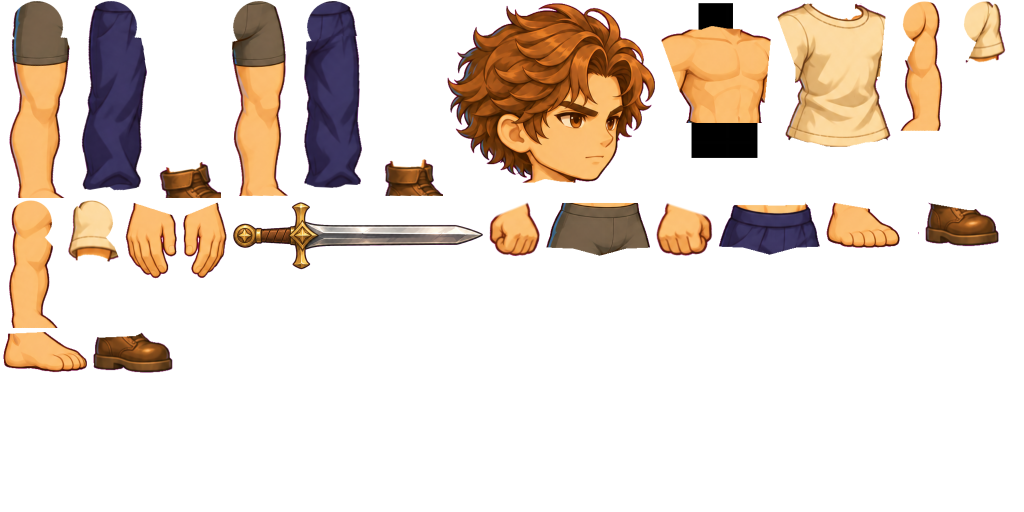
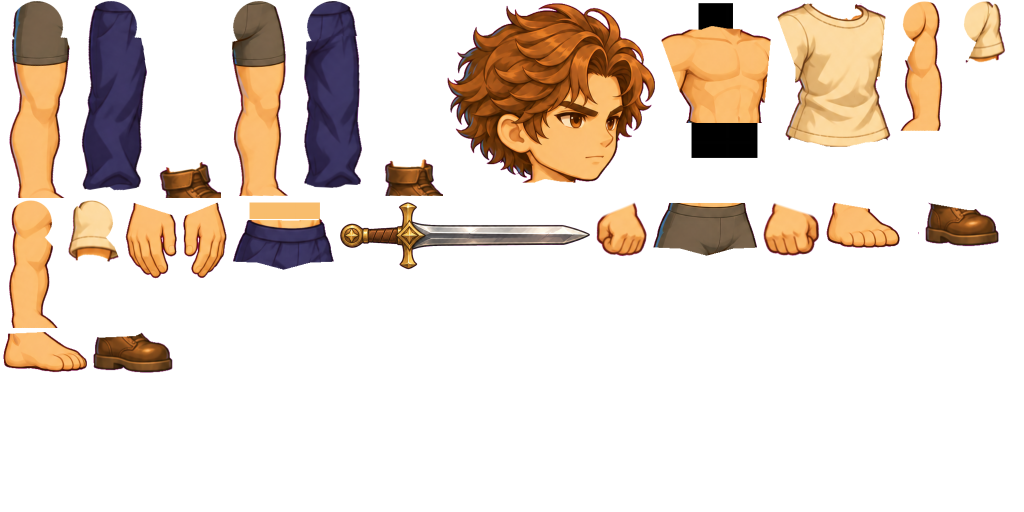
V4 lab, BASE-01: animations authored for the body (the art director's motion review), weapon fixed in the fist
Idle (armed and bare), run (contact, compression, push-off, flight), jump (anticipation to landing) and the sword
attack (wind-up, swing with the hips, impact, follow-through, recovery), each key a pose in the world with the legs
reaching their ankles by two-bone IK (planted feet stay planted). The held weapon is a rigid part of the fist (the
socket follows the handle the fist was drawn round). Trousers carry on hidden under a top's hem; the exporter now
starts the item fit from the figures' boxes.

Claude-Session: https://claude.ai/code/session_01AdjxSzUCV4VRbquShPanH9

Changed region(s): [[0.2188, 0.375, 0.8125, 0.5312]]

diff --git a/src/v4/base01/anims.ts b/src/v4/base01/anims.ts
@@ -1,109 +1,172 @@
-// BASE-01's animations: the lab's idle, run, jump and attack. The legs, hips, torso and head keep their motion,
-// carried over so every bone keeps its world angle; the arms are posed for a weapon held in the near hand, in world
-// angles (90 = straight down, 0 = forward): the blade stays clear of the face, the free far hand balances. Items never
-// have animations of their own: everything worn rides these same bones.
-import { ANIMS_B } from '../real/animsB';
-import { RIG_B } from '../real/rigB';
+// BASE-01's animations, authored for this body (the art director's motion review, 2 Nov 2026): key poses with real
+// weight. Each key is a pose in the world: where the pelvis sits, how the chest and head lean, where each ankle is
+// (the leg bends to reach it: two-bone IK, knee forward, so planted feet stay planted) and the foot's angle, and the
+// arms' world angles (90 = straight down, 0 = forward). A held weapon is a rigid part of the fist: no animation turns
+// it about the hand; the wrist turns the hand and the weapon together. Items never have animations of their own.
 import { k } from '../rig/anims';
-import { sample } from '../rig/pose';
-import type { AnimDef, Ease, Key, RigDef } from '../rig/types';
-import { carryOver } from '../studio/animsT';
-import { RIG_B01 } from './rig';
+import type { AnimDef, BoneTimeline, Ease, Key } from '../rig/types';
+import data from './assets/base01.json';
+import { GRIP_AXIS } from './rig';
 
-const restLocal = (rig: RigDef): Record<string, number> => Object.fromEntries(rig.bones.map((b) => [b.name, b.r]));
-type ArmPose = [number, number, number, number?];
+const R = data.rig;
+const W = R.world as unknown as Record<string, number>;
+const O = R.offsets as unknown as Record<string, [number, number]>;
+const LEN = R.lengths as unknown as Record<string, number>;
+const RAD = Math.PI / 180;
+type Side = 'B' | 'F';
 
-function armKeys(base: AnimDef, side: 'B' | 'F', keys: [number, ArmPose, Ease?][]) {
-  const R = restLocal(RIG_B01);
-  const chest = (t: number) => sample(base.bones.hip?.r, t) + R.hip + sample(base.bones.chest?.r, t) + R.chest;
-  const up: Key[] = [], fo: Key[] = [], ha: Key[] = [], we: Key[] = [];
-  for (const [t, [u, f, h, blade], e] of keys) {
-    const ease = e ?? 'inout';
-    up.push(k(t, u - chest(t) - R[`uparm_${side}`], ease));
-    fo.push(k(t, f - u - R[`forearm_${side}`], ease));
-    ha.push(k(t, h - f - R[`hand_${side}`], ease));
-    if (blade !== undefined) we.push(k(t, blade - h - R.weapon, ease));
+/** Ankle target: [x, y] in the root frame (B units, y down, the ground at 0) and the foot's world angle. */
+type Foot = [number, number, number];
+/** Arm: upper arm, forearm, hand world angles. */
+type Arm = [number, number, number];
+interface Pose {
+  t: number; e?: Ease;
+  hip?: [number, number]; hipR?: number; chest?: number; head?: number;
+  legs: Record<Side, Foot | ((hx: number, hy: number) => Foot)>;
+  arms: Record<Side, Arm>;
+}
+
+const rot = (x: number, y: number, deg: number): [number, number] => { const c = Math.cos(deg * RAD), s = Math.sin(deg * RAD); return [x * c - y * s, x * s + y * c]; };
+/** Where each hip joint is for a pelvis offset and rotation. */
+function hipJoint(s: Side, hip: [number, number], hr: number): [number, number] {
+  const [ox, oy] = rot(O[`thigh_${s}`][0], O[`thigh_${s}`][1], hr);
+  return [O.hip[0] + hip[0] + ox, O.hip[1] + hip[1] + oy];
+}
+/** Two-bone IK, the knee bending forward: thigh and shin world angles that put the ankle on (ax, ay). */
+function ik(s: Side, hx: number, hy: number, ax: number, ay: number): [number, number] {
+  const L1 = LEN[`thigh_${s}`], L2 = LEN[`shin_${s}`];
+  let dx = ax - hx, dy = ay - hy, d = Math.hypot(dx, dy);
+  const dmax = (L1 + L2) * 0.9995;
+  if (d > dmax) { dx *= dmax / d; dy *= dmax / d; d = dmax; }
+  const phi = Math.atan2(dy, dx);
+  const a = Math.acos(Math.max(-1, Math.min(1, (L1 * L1 + d * d - L2 * L2) / (2 * L1 * d))));
+  const t1 = phi - a;
+  const kx = hx + L1 * Math.cos(t1), ky = hy + L1 * Math.sin(t1);
+  return [t1 / RAD, Math.atan2(hy + dy - ky, hx + dx - kx) / RAD];
+}
+/** The ankle's rest place (on the ground, foot flat). */
+const ANKLE0: Record<Side, [number, number]> = (['B', 'F'] as Side[]).reduce((m, s) => {
+  const [hx, hy] = hipJoint(s, [0, 0], 0);
+  const kx = hx + LEN[`thigh_${s}`] * Math.cos(W[`thigh_${s}`] * RAD), ky = hy + LEN[`thigh_${s}`] * Math.sin(W[`thigh_${s}`] * RAD);
+  m[s] = [kx + LEN[`shin_${s}`] * Math.cos(W[`shin_${s}`] * RAD), ky + LEN[`shin_${s}`] * Math.sin(W[`shin_${s}`] * RAD)];
+  return m;
+}, {} as Record<Side, [number, number]>);
+const GROUND = ANKLE0.B[1];
+/** A foot on the ground at x (flat unless an angle is given). */
+const on = (x: number, a = 0, lift = 0): Foot => [x, GROUND - lift, a];
+/** A foot placed from its own hip joint (airborne legs). */
+const fromHip = (dx: number, dy: number, a: number) => (hx: number, hy: number): Foot => [hx + dx, hy + dy, a];
+
+function build(name: string, dur: number, loop: boolean, poses: Pose[], extra: Partial<AnimDef> = {}): AnimDef {
+  const ch: Record<string, { r: Key[]; x?: Key[]; y?: Key[] }> = {};
+  const put = (bone: string, t: number, v: number, e: Ease, axis: 'r' | 'x' | 'y' = 'r') => {
+    const b = (ch[bone] ??= { r: [] });
+    (b[axis] ??= []).push(k(t, v, e));
+  };
+  for (const p of poses) {
+    const e = p.e ?? 'inout', hip = p.hip ?? [0, 0], hr = p.hipR ?? 0, chest = p.chest ?? 0;
+    put('hip', p.t, hip[0], e, 'x'); put('hip', p.t, hip[1], e, 'y'); put('hip', p.t, hr, e);
+    put('chest', p.t, chest, e); put('head', p.t, p.head ?? 0, e);
+    for (const s of ['B', 'F'] as Side[]) {
+      const [hx, hy] = hipJoint(s, hip, hr);
+      const leg = p.legs[s], [ax, ay, fa] = typeof leg === 'function' ? leg(hx, hy) : leg;
+      const [t1, t2] = ik(s, hx, hy, ax, ay);
+      put(`thigh_${s}`, p.t, t1 - hr - W[`thigh_${s}`], e);
+      put(`shin_${s}`, p.t, (t2 - t1) - (W[`shin_${s}`] - W[`thigh_${s}`]), e);
+      put(`foot_${s}`, p.t, fa - t2 + W[`shin_${s}`], e);
+      const [u, f, h] = p.arms[s];
+      put(`uparm_${s}`, p.t, u - (hr + chest) - W[`uparm_${s}`], e);
+      put(`forearm_${s}`, p.t, (f - u) - (W[`forearm_${s}`] - W[`uparm_${s}`]), e);
+      put(`hand_${s}`, p.t, h - f, e);
+    }
   }
-  for (const ch of [up, fo, ha, we]) for (let i = 1; i < ch.length; i++) ch[i].v -= 360 * Math.round((ch[i].v - ch[i - 1].v) / 360);
-  return { [`uparm_${side}`]: { r: up }, [`forearm_${side}`]: { r: fo }, [`hand_${side}`]: { r: ha }, ...(we.length ? { weapon: { r: we } } : {}) };
+  // every joint turns the short way between keys
+  for (const b of Object.values(ch)) for (const keys of [b.r, b.x, b.y]) {
+    if (!keys) continue;
+    keys.sort((a, c) => a.t - c.t);
+    if (keys === b.r) for (let i = 1; i < keys.length; i++) keys[i].v -= 360 * Math.round((keys[i].v - keys[i - 1].v) / 360);
+  }
+  return { name, dur, loop, bones: ch as Record<string, BoneTimeline>, ...extra };
 }
 
-const loopKeys = (dur: number, poses: ArmPose[]): [number, ArmPose][] => poses.map((p, i) => [(dur * i) / (poses.length - 1), p]);
-const carry = (a: AnimDef) => carryOver(a, RIG_B, RIG_B01);
-const HANDS = { handB: [{ t: 0, v: 'grip' }], handF: [{ t: 0, v: 'grip' }] };
+/** The hand angle that points a held weapon's blade along `blade` (the fist's handle is fixed in the hand). */
+const grip = (s: Side, blade: number) => blade + GRIP_AXIS[s];
+const ARMED = { handB: [{ t: 0, v: 'grip' }], handF: [{ t: 0, v: 'grip' }] };
+const BARE = { handB: [{ t: 0, v: 'open' }], handF: [{ t: 0, v: 'open' }] };
 
-// the stance: the weapon hand low in front of the waist, the blade forward-up; the free hand a loose fist by the hip
-const STANCE_NEAR: ArmPose = [76, 34, 40, -40];
-const STANCE_FAR: ArmPose = [84, 60, 64];
+// The armed stance: the near (sword) hand in front of the belly, the blade up-forward; the free fist by the hip; the
+// feet a little wider than the rest pose, the weight a little back.
+const GUARD: Record<Side, Arm> = { B: [72, 18, grip('B', -42)], F: [88, 66, 74] };
+const STANCE = { B: -0.11, F: 0.105 };
 
-function idle(): AnimDef {
-  const b = carry(ANIMS_B.idle);
-  return {
-    ...b,
-    bones: {
-      ...b.bones,
-      ...armKeys(b, 'B', loopKeys(1.6, [STANCE_NEAR, [78, 37, 42, -39], STANCE_NEAR])),
-      ...armKeys(b, 'F', loopKeys(1.6, [STANCE_FAR, [86, 63, 67], STANCE_FAR])),
-    },
-    swaps: { ...b.swaps, ...HANDS },
-  };
+const IDLE = build('idle', 2.4, true, [
+  { t: 0, hip: [-0.008, 0.012], chest: 3, head: -2, legs: { B: on(STANCE.B), F: on(STANCE.F) }, arms: GUARD },
+  { t: 1.2, hip: [-0.011, 0.017], chest: 4.6, head: -2.8, legs: { B: on(STANCE.B), F: on(STANCE.F) }, arms: { B: [74, 21, grip('B', -40)], F: [90, 69, 76] } },
+  { t: 2.4, hip: [-0.008, 0.012], chest: 3, head: -2, legs: { B: on(STANCE.B), F: on(STANCE.F) }, arms: GUARD },
+], { swaps: ARMED });
+
+const IDLE_BARE = build('idle_bare', 2.6, true, [
+  { t: 0, hip: [-0.006, 0.008], chest: 1, head: -1, legs: { B: on(-0.1), F: on(0.095) }, arms: { B: [102, 99, 99], F: [80, 84, 86] } },
+  { t: 1.3, hip: [-0.009, 0.013], chest: 2.6, head: -1.8, legs: { B: on(-0.1), F: on(0.095) }, arms: { B: [104, 101, 101], F: [82, 86, 88] } },
+  { t: 2.6, hip: [-0.006, 0.008], chest: 1, head: -1, legs: { B: on(-0.1), F: on(0.095) }, arms: { B: [102, 99, 99], F: [80, 84, 86] } },
+], { swaps: BARE });
+
+// The run: contact (the front foot lands, heel first), compression (the body drops over the planted foot), push-off
+// (the back leg extends, on its toes), flight (both feet off the ground); then the same with the other leg. 0.5 s a
+// cycle; the planted foot travels back at the run's speed (no sliding).
+const RD = 0.5, Q = RD / 8;
+const hxB = hipJoint('B', [0, 0], 0)[0], hxF = hipJoint('F', [0, 0], 0)[0];
+type Phase = 'contact' | 'down' | 'push' | 'flight' | 'contact2' | 'down2' | 'push2' | 'flight2';
+function runLeg(s: Side, ph: Phase): (hx: number, hy: number) => Foot {
+  const lead = s === 'F' ? ['contact', 'down', 'push', 'flight'] : ['contact2', 'down2', 'push2', 'flight2'];
+  const i = lead.indexOf(ph);
+  const PLANT: Foot[] = [[0.17, GROUND + 0.004, -14], [0.03, GROUND, 0], [-0.14, GROUND - 0.022, 38], [-0.2, GROUND - 0.09, 55]];
+  const SWING: Foot[] = [[-0.19, GROUND - 0.1, 48], [-0.05, GROUND - 0.17, 32], [0.12, GROUND - 0.13, -4], [0.19, GROUND - 0.05, -16]];
+  const f = i >= 0 ? PLANT[i] : SWING[(['contact', 'down', 'push', 'flight', 'contact2', 'down2', 'push2', 'flight2'].indexOf(ph) + 4) % 4];
+  const hx0 = s === 'B' ? hxB : hxF;
+  return (hx: number) => [hx0 + (hx - hx0) + f[0], f[1], f[2]];
 }
+const RUN_BODY: Record<string, { y: number; chest: number; head: number; armB: Arm; armF: Arm }> = {
+  contact: { y: 0.012, chest: 11, head: -7, armB: [64, 8, grip('B', -46)], armF: [106, 74, 78] },
+  down: { y: 0.03, chest: 13, head: -8, armB: [66, 10, grip('B', -45)], armF: [104, 60, 66] },
+  push: { y: 0.008, chest: 11, head: -7, armB: [70, 16, grip('B', -42)], armF: [70, 20, 26] },
+  flight: { y: -0.012, chest: 10, head: -6, armB: [72, 20, grip('B', -40)], armF: [44, -6, 0] },
+  contact2: { y: 0.012, chest: 11, head: -7, armB: [74, 22, grip('B', -40)], armF: [40, -10, -4] },
+  down2: { y: 0.03, chest: 13, head: -8, armB: [72, 20, grip('B', -41)], armF: [62, 14, 20] },
+  push2: { y: 0.008, chest: 11, head: -7, armB: [68, 14, grip('B', -43)], armF: [96, 52, 58] },
+  flight2: { y: -0.012, chest: 10, head: -6, armB: [65, 9, grip('B', -46)], armF: [102, 70, 74] },
+};
+const RUN_ORDER: Phase[] = ['contact', 'down', 'push', 'flight', 'contact2', 'down2', 'push2', 'flight2'];
+const RUN = build('run', RD, true, [...RUN_ORDER, 'contact' as Phase].map((ph, i) => {
+  const b = RUN_BODY[ph];
+  return { t: i * Q, e: 'linear' as Ease, hip: [0, b.y] as [number, number], chest: b.chest, head: b.head, legs: { B: runLeg('B', ph), F: runLeg('F', ph) }, arms: { B: b.armB, F: b.armF } };
+}), { swaps: ARMED, order: [] });
 
-function run(): AnimDef {
-  const b = carry(ANIMS_B.run), D = b.dur;
-  return {
-    ...b,
-    bones: {
-      ...b.bones,
-      ...armKeys(b, 'B', loopKeys(D, [[64, 8, 14, -46], [72, 18, 24, -38], [82, 30, 36, -28], [72, 18, 24, -38], [64, 8, 14, -46]])),
-      ...armKeys(b, 'F', loopKeys(D, [[118, 74, 78], [92, 42, 48], [60, 4, 10], [92, 42, 48], [118, 74, 78]])),
-    },
-    swaps: { ...b.swaps, ...HANDS },
-    order: [],
-  };
-}
+// The jump: anticipation (a quick crouch), takeoff (full extension, toes pointing), rising (knees tucked), the top,
+// falling (the legs reach for the ground), landing (compression), back to the stance.
+const JUMP = build('jump', 0.9, false, [
+  { t: 0, hip: [-0.008, 0.012], chest: 3, head: -2, legs: { B: on(STANCE.B), F: on(STANCE.F) }, arms: GUARD },
+  { t: 0.08, e: 'in', hip: [0, 0.065], chest: 18, head: -8, legs: { B: on(STANCE.B), F: on(STANCE.F) }, arms: { B: [92, 44, grip('B', -30)], F: [104, 82, 86] } },
+  { t: 0.16, e: 'out', hip: [0.01, -0.1], chest: 5, head: -2, legs: { B: fromHip(-0.035, 0.31, 40), F: fromHip(0.01, 0.305, 30) }, arms: { B: [28, -30, grip('B', -60)], F: [-25, -55, -50] } },
+  { t: 0.3, hip: [0.01, -0.27], chest: 7, head: -3, legs: { B: fromHip(-0.07, 0.2, 30), F: fromHip(0.07, 0.18, 18) }, arms: { B: [40, -14, grip('B', -55)], F: [-8, -35, -30] } },
+  { t: 0.45, hip: [0.01, -0.32], chest: 6, head: -3, legs: { B: fromHip(-0.06, 0.22, 26), F: fromHip(0.08, 0.235, 10) }, arms: { B: [46, -6, grip('B', -52)], F: [10, -20, -14] } },
+  { t: 0.62, e: 'in', hip: [0.005, -0.17], chest: 6, head: -3, legs: { B: fromHip(-0.045, 0.29, 14), F: fromHip(0.05, 0.3, 4) }, arms: { B: [58, 6, grip('B', -46)], F: [40, 16, 24] } },
+  { t: 0.72, e: 'out', hip: [0, 0.01], chest: 9, head: -4, legs: { B: on(STANCE.B), F: on(STANCE.F) }, arms: { B: [66, 14, grip('B', -44)], F: [70, 40, 46] } },
+  { t: 0.78, hip: [0, 0.07], chest: 20, head: -9, legs: { B: on(STANCE.B), F: on(STANCE.F) }, arms: { B: [86, 38, grip('B', -32)], F: [104, 84, 88] } },
+  { t: 0.9, hip: [-0.008, 0.012], chest: 3, head: -2, legs: { B: on(STANCE.B), F: on(STANCE.F) }, arms: GUARD },
+], { swaps: ARMED });
 
-function jump(): AnimDef {
-  const b = carry(ANIMS_B.jump);
-  return {
-    ...b,
-    bones: {
-      ...b.bones,
-      ...armKeys(b, 'B', [[0, [80, 40, 44, -38]], [0.08, [64, 18, 22, -48]], [0.22, [48, -6, -2, -56]], [0.36, [46, -10, -6, -58]], [0.5, [52, 0, 4, -53]], [0.6, [60, 14, 18, -48]], [0.65, [78, 36, 40, -40]], [0.7, STANCE_NEAR]]),
-      ...armKeys(b, 'F', [[0, [96, 70, 74]], [0.08, [64, 36, 42]], [0.22, [26, -10, -6]], [0.36, [16, -22, -18]], [0.5, [32, -2, 2]], [0.6, [58, 26, 32]], [0.65, [92, 66, 70]], [0.7, STANCE_FAR]]),
-    },
-    swaps: { ...b.swaps, ...HANDS },
-  };
-}
+// The sword attack, an overhead diagonal slash on the game's timings (the hit at 0.20 s): wind-up (weight back, the
+// sword drawn up behind the head), the swing (the hips turn and lunge, the front foot steps in, the chest follows,
+// the arm comes over the top), the impact (blade level, arm extended), follow-through (blade forward-down), recovery.
+const ATTACK = build('attack', 0.65, false, [
+  { t: 0, hip: [-0.008, 0.012], chest: 3, head: -2, legs: { B: on(STANCE.B), F: on(STANCE.F) }, arms: GUARD },
+  { t: 0.1, hip: [-0.032, 0.022], hipR: -4, chest: -10, head: 4, legs: { B: on(STANCE.B), F: on(STANCE.F, -6, 0.004) }, arms: { B: [-100, -125, grip('B', 169)], F: [12, -8, 0] } },
+  { t: 0.16, e: 'in', hip: [-0.012, 0.024], hipR: -2, chest: -4, head: 2, legs: { B: on(STANCE.B), F: on(STANCE.F + 0.04, -8, 0.02) }, arms: { B: [-95, -80, grip('B', -150)], F: [32, 2, 8] } },
+  { t: 0.2, e: 'out', hip: [0.05, 0.036], hipR: 4, chest: 14, head: -6, legs: { B: on(STANCE.B, 18, 0.01), F: on(0.21) }, arms: { B: [14, 40, grip('B', -13)], F: [100, 78, 82] } },
+  { t: 0.3, hip: [0.056, 0.042], hipR: 5, chest: 18, head: -7, legs: { B: on(STANCE.B, 22, 0.012), F: on(0.21) }, arms: { B: [55, 85, grip('B', 27)], F: [98, 76, 80] } },
+  { t: 0.45, hip: [0.05, 0.036], hipR: 4, chest: 15, head: -6, legs: { B: on(STANCE.B, 18, 0.01), F: on(0.21) }, arms: { B: [60, 88, grip('B', 29)], F: [94, 72, 76] } },
+  { t: 0.65, hip: [-0.008, 0.012], chest: 3, head: -2, legs: { B: on(STANCE.B), F: on(STANCE.F) }, arms: GUARD },
+], { swaps: ARMED, order: [{ t: 0.012, move: 'group:armB', before: 'group:head' }, { t: 0.185, move: 'group:armB', before: null }] });
 
-// the basic attack, an overhead chop on the game's timings (wind-up 0-0.20, hit at 0.20, recovery to 0.65)
-function attack(): AnimDef {
-  const b = carry(ANIMS_B.attack);
-  return {
-    ...b,
-    bones: {
-      ...b.bones,
-      ...armKeys(b, 'B', [
-        [0, STANCE_NEAR],
-        [0.07, [-88, -100, -100, -95]],
-        [0.15, [-105, -150, -160, 120]],
-        [0.19, [-108, -158, -165, 110], 'in'],
-        [0.212, [-95, -85, -70, -75], 'in'],
-        [0.236, [-42, -22, -12, -22], 'linear'],
-        [0.26, [10, 15, 20, 30], 'out'],
-        [0.33, [14, 22, 28, 38]],
-        [0.42, [38, 46, 52, 62]],
-        [0.52, [60, 30, 34, -10]],
-        [0.65, STANCE_NEAR],
-      ]),
-      ...armKeys(b, 'F', [
-        [0, STANCE_FAR], [0.07, [60, 10, 16]], [0.15, [36, -26, -20]], [0.19, [34, -28, -22]],
-        [0.26, [112, 98, 102], 'out'], [0.33, [110, 95, 100]], [0.45, [98, 76, 80]], [0.65, STANCE_FAR],
-      ]),
-    },
-    swaps: { ...b.swaps, ...HANDS },
-    order: [{ t: 0.04, move: 'group:armB', before: 'group:head' }, { t: 0.25, move: 'group:armB', before: null }],
-  };
-}
-
-export const ANIMS_B01: Record<string, AnimDef> = { idle: idle(), run: run(), jump: jump(), attack: attack() };
+export const ANIMS_B01: Record<string, AnimDef> = { idle: IDLE, idle_bare: IDLE_BARE, run: RUN, jump: JUMP, attack: ATTACK };

diff --git a/src/v4/base01/rig.ts b/src/v4/base01/rig.ts
@@ -12,14 +12,17 @@ const O = R.offsets as unknown as Record<string, [number, number]>;
 const LEN = R.lengths as unknown as Record<string, number>;
 const LIMB = R.limbs as unknown as Record<string, { top: number; bottom: number; bend: number }>;
 const HAND_LEN = { B: R.hand_len as number, F: (R as unknown as { hand_len_F: number }).hand_len_F };
+/** Each fist's handle direction relative to its hand bone (degrees). */
+export const GRIP_AXIS = (R as unknown as { grip_axis: Record<'B' | 'F', number> }).grip_axis;
 
 const bone = (name: string, parent: string | null, x: number, y: number, r: number, len = 0): BoneDef => ({ name, parent, x, y, r, len });
 const side = (s: 'B' | 'F'): BoneDef[] => [
   bone(`uparm_${s}`, 'chest', O[`uparm_${s}`][0], O[`uparm_${s}`][1], W[`uparm_${s}`], LEN[`uparm_${s}`]),
   bone(`forearm_${s}`, `uparm_${s}`, LEN[`uparm_${s}`], 0, W[`forearm_${s}`] - W[`uparm_${s}`], LEN[`forearm_${s}`]),
   bone(`hand_${s}`, `forearm_${s}`, LEN[`forearm_${s}`], 0, 0, HAND_LEN[s]),
-  // the grip socket: through the middle of the fist, pointing forward (to the right) while the arm hangs at rest
-  bone(s === 'B' ? 'weapon' : 'offhand', `hand_${s}`, HAND_LEN[s], 0, -W[`forearm_${s}`]),
+  // the grip socket: through the middle of the fist along the handle the fist was drawn round, fixed to the hand (a
+  // held weapon never turns about the fist; the wrist turns the hand and the weapon together)
+  bone(s === 'B' ? 'weapon' : 'offhand', `hand_${s}`, HAND_LEN[s], 0, -GRIP_AXIS[s]),
   bone(`thigh_${s}`, 'hip', O[`thigh_${s}`][0], O[`thigh_${s}`][1], W[`thigh_${s}`], LEN[`thigh_${s}`]),
   bone(`shin_${s}`, `thigh_${s}`, LEN[`thigh_${s}`], 0, W[`shin_${s}`] - W[`thigh_${s}`], LEN[`shin_${s}`]),
   bone(`foot_${s}`, `shin_${s}`, LEN[`shin_${s}`], 0, -W[`shin_${s}`], 0.1),

diff --git a/src/v4/studio/ui.ts b/src/v4/studio/ui.ts
@@ -2,7 +2,7 @@
 import type { WardrobeSlot } from '../wardrobe/types';
 import { KIT, type StudioScene } from './StudioScene';
 
-const ANIMS = [['rest', 'Source pose'], ['idle', 'Idle'], ['run', 'Run'], ['jump', 'Jump'], ['attack', 'Attack']] as const;
+const ANIMS = [['rest', 'Source pose'], ['idle', 'Idle'], ['idle_bare', 'Idle (no weapon)'], ['run', 'Run'], ['jump', 'Jump'], ['attack', 'Attack']] as const;
 
 export function buildStudioUI(scene: StudioScene): void {
   const $ = (id: string) => document.getElementById(id)!;

diff --git a/tools/v4/base01/build.py b/tools/v4/base01/build.py
@@ -192,7 +192,7 @@ def fill_under(layer, region, known):
     return tl.inpaint_rgba(layer, known, region, radius=6)
 
 
-def cut_body(prefix, alpha, fg, L, base=True):
+def cut_body(prefix, alpha, fg, L, base=True, item_slot=None):
     """The pieces of one figure (the base body, or an item's own pixels) cut by the part map L."""
     made = []
     lay = lambda m: tl.premul(alpha, fg, m.astype(np.float32))
@@ -207,7 +207,19 @@ def cut_body(prefix, alpha, fg, L, base=True):
         known = L['torso'] & (alpha > 0.9) & (fg.max(2) > 140)
         tl_ = fill_under(tl_, (neck & ~L['torso']) | (belly & ~L['torso']), known)
     if L['torso'].any() and put_rigid(f'{prefix}/torso', tl_, J['waist']): made.append(('torso', f'{prefix}/torso'))
-    if L['pelvis'].any() and put_rigid(f'{prefix}/pelvis', lay(L['pelvis']), J['pelvis']): made.append(('pelvis', f'{prefix}/pelvis'))
+    pl = lay(L['pelvis'])
+    if not base and L['pelvis'].any() and item_slot == 'bottom':
+        # the trousers' waist carries on a little up under the top (hidden art): a top's hem riding the chest never
+        # opens a gap onto the belly when the hips and the chest turn apart
+        rows = np.where(L['pelvis'].any(1))[0]; ty = rows.min()
+        cols = np.where(L['pelvis'][ty + 6])[0]
+        band = L['pelvis'] & (YY < ty + 0.02 * BPX) & (alpha > 0.9)
+        px_ = fg[band]
+        if len(px_):
+            col = np.median(px_, axis=0)
+            up = (YY >= ty - 0.03 * BPX) & (YY < ty + 3) & (XX > cols.min() + 3) & (XX < cols.max() - 3) & ~L['pelvis']
+            pl[up, :3] = col; pl[up, 3] = 1.0
+    if L['pelvis'].any() and put_rigid(f'{prefix}/pelvis', pl, J['pelvis']): made.append(('pelvis', f'{prefix}/pelvis'))
     for s in 'BF':
         if L[f'arm_{s}'].any() and put_strip(f'{prefix}/arm_{s}', f'arm_{s}', limb_layer(f'arm_{s}', L[f'arm_{s}'], {'top': L['torso'], 'end': L[f'hand_{s}']}, alpha, fg)):
             made.append((f'arm_{s}', f'{prefix}/arm_{s}'))
@@ -269,7 +281,14 @@ def align(alpha_i, region):
     a = cv2.GaussianBlur(cv2.resize(alpha0.astype(np.float32), None, fx=s, fy=s, interpolation=cv2.INTER_AREA), (0, 0), 2.5)
     b = cv2.GaussianBlur(cv2.resize(alpha_i.astype(np.float32), None, fx=s, fy=s, interpolation=cv2.INTER_AREA), (0, 0), 2.5)
     keep = cv2.resize((~ndimage.binary_dilation(region, iterations=25)).astype(np.uint8), None, fx=s, fy=s, interpolation=cv2.INTER_NEAREST)
-    warp = np.eye(2, 3, dtype=np.float32)
+    # start from the two figures' boxes (same height from the soles to the top of the hair, same feet): a picture
+    # drawn bigger or lower still converges
+    def box(al):
+        ys, xs = np.where(al > 0.5); return xs.min(), xs.max(), ys.min(), ys.max()
+    x0a, x1a, y0a, y1a = box(alpha0); x0b, x1b, y0b, y1b = box(alpha_i)
+    k0 = (y1b - y0b) / (y1a - y0a)
+    c0 = np.array([(x0a + x1a) / 2, y1a]); c1 = np.array([(x0b + x1b) / 2, y1b])
+    warp = np.array([[k0, 0, (c1[0] - k0 * c0[0]) * s], [0, k0, (c1[1] - k0 * c0[1]) * s]], np.float32)
     crit = (cv2.TERM_CRITERIA_EPS | cv2.TERM_CRITERIA_COUNT, 400, 1e-7)
     cc, warp = cv2.findTransformECC(a, b, warp, cv2.MOTION_AFFINE, crit, keep, 5)
     warp[:, 2] /= s
@@ -397,7 +416,7 @@ for it in items_spec:
         Li[p] = np.zeros(SH, bool)
     for p in allowed:
         Li[remap.get(p, p)] = Li[remap.get(p, p)] | (item & field[p])
-    made = cut_body(it['id'], wgt, fg_a / 255.0, Li, base=False)
+    made = cut_body(it['id'], wgt, fg_a / 255.0, Li, base=False, item_slot=it['slot'])
     ITEMS.append({'id': it['id'], 'slot': it['slot'], 'name': it['name'], 'parts': [{'part': p, 'frame': f} for p, f in made]})
     Image.fromarray(np.dstack([fg_a, wgt * 255]).clip(0, 255).astype(np.uint8), 'RGBA').save(os.path.join(OUT, f"item_{it['id']}.png"))
 
@@ -411,6 +430,8 @@ rig = {
     'bpx_drawing': BPX, 'root': [round(float(v), 1) for v in ROOT],
     'world': {k: round(v, 3) for k, v in WORLD.items()}, 'lengths': {k: round(v, 5) for k, v in LEN.items()},
     'hand_len': round(HAND_LEN['B'], 5), 'hand_len_F': round(HAND_LEN['F'], 5),
+    # the handle through each fist, relative to the hand bone (the grip picture's forearm against its level handle)
+    'grip_axis': {s: round(math.degrees(math.atan2(T['hands'][s]['axis'][1], T['hands'][s]['axis'][0])), 3) for s in 'BF'},
     'offsets': GEO, 'limbs': {n: {k: lm[k] for k in ('top', 'bottom', 'bend')} for n, lm in LIMBS.items()},
 }
 json.dump({'bpx': ABPX, 'frames': meta, 'items': ITEMS, 'rig': rig, 'report': REPORT}, open(os.path.join(OUT, 'parts.json'), 'w'), indent=1)
